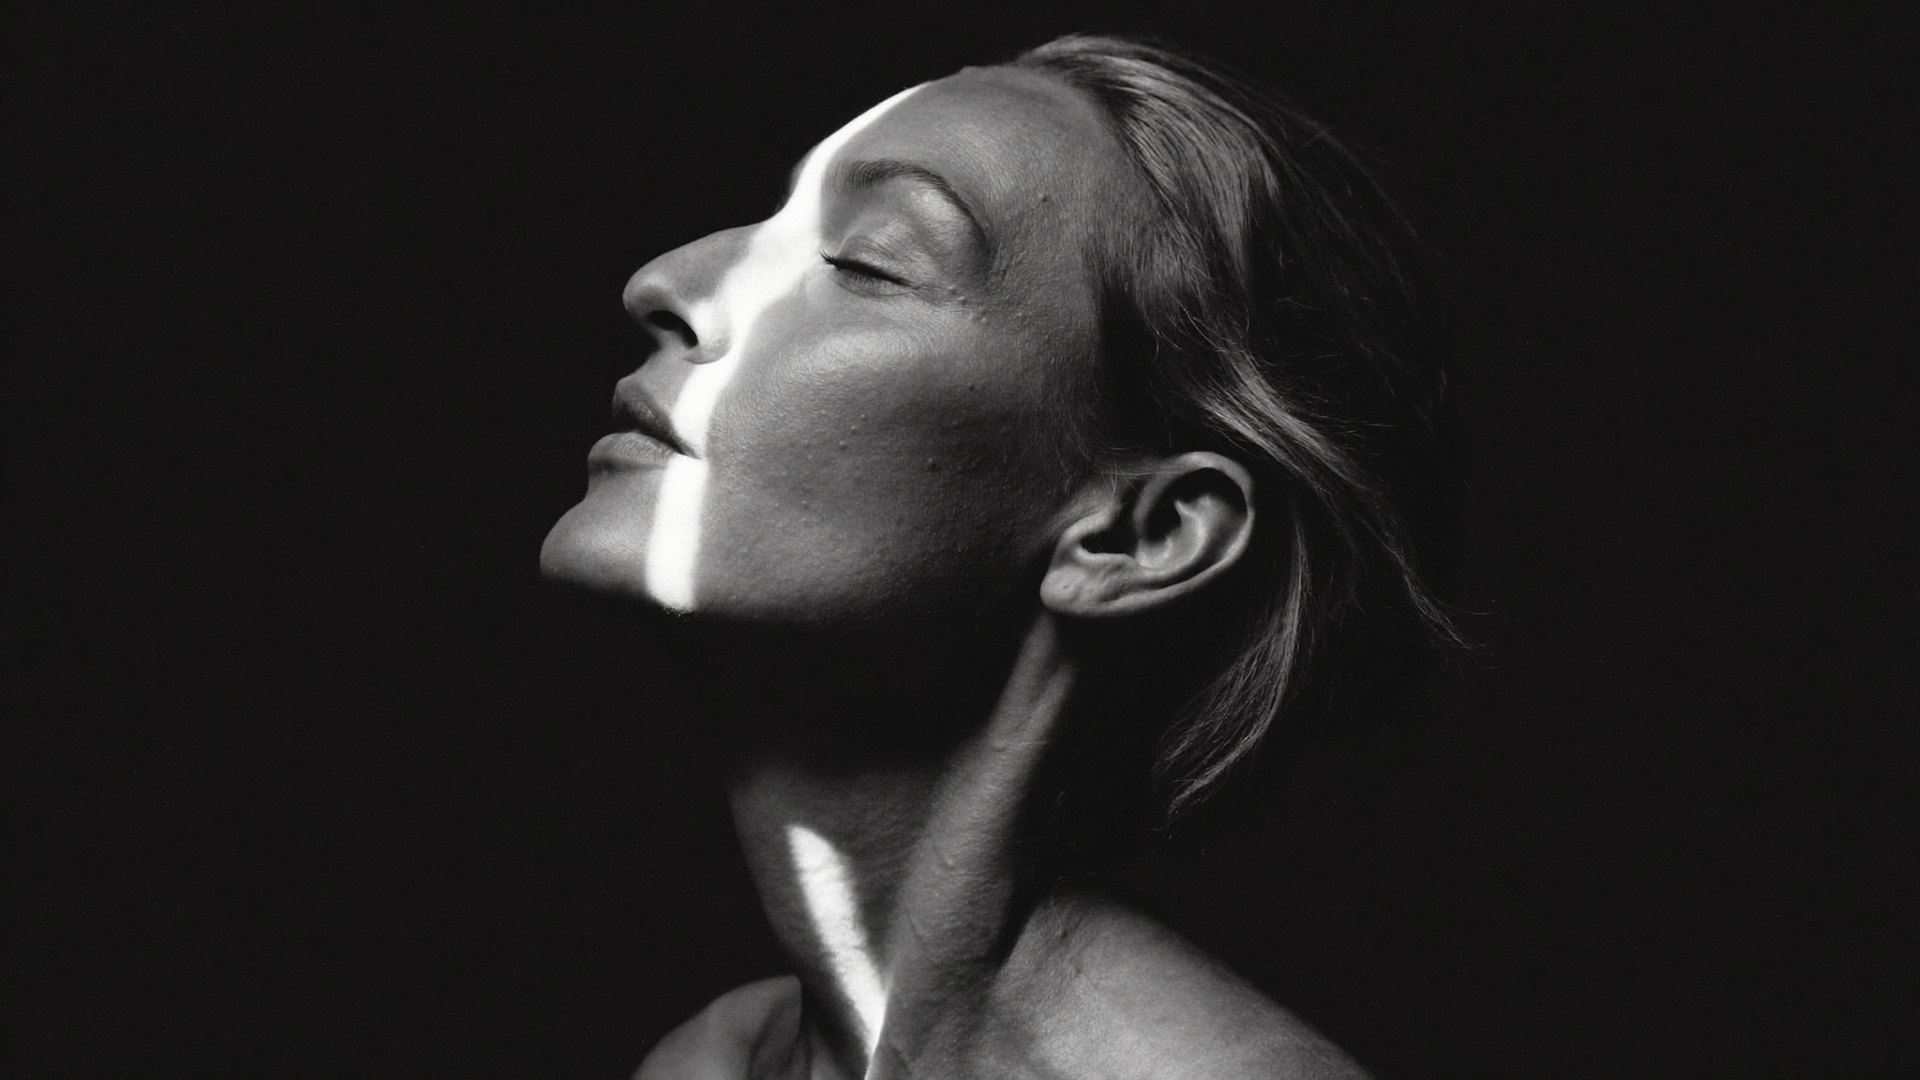
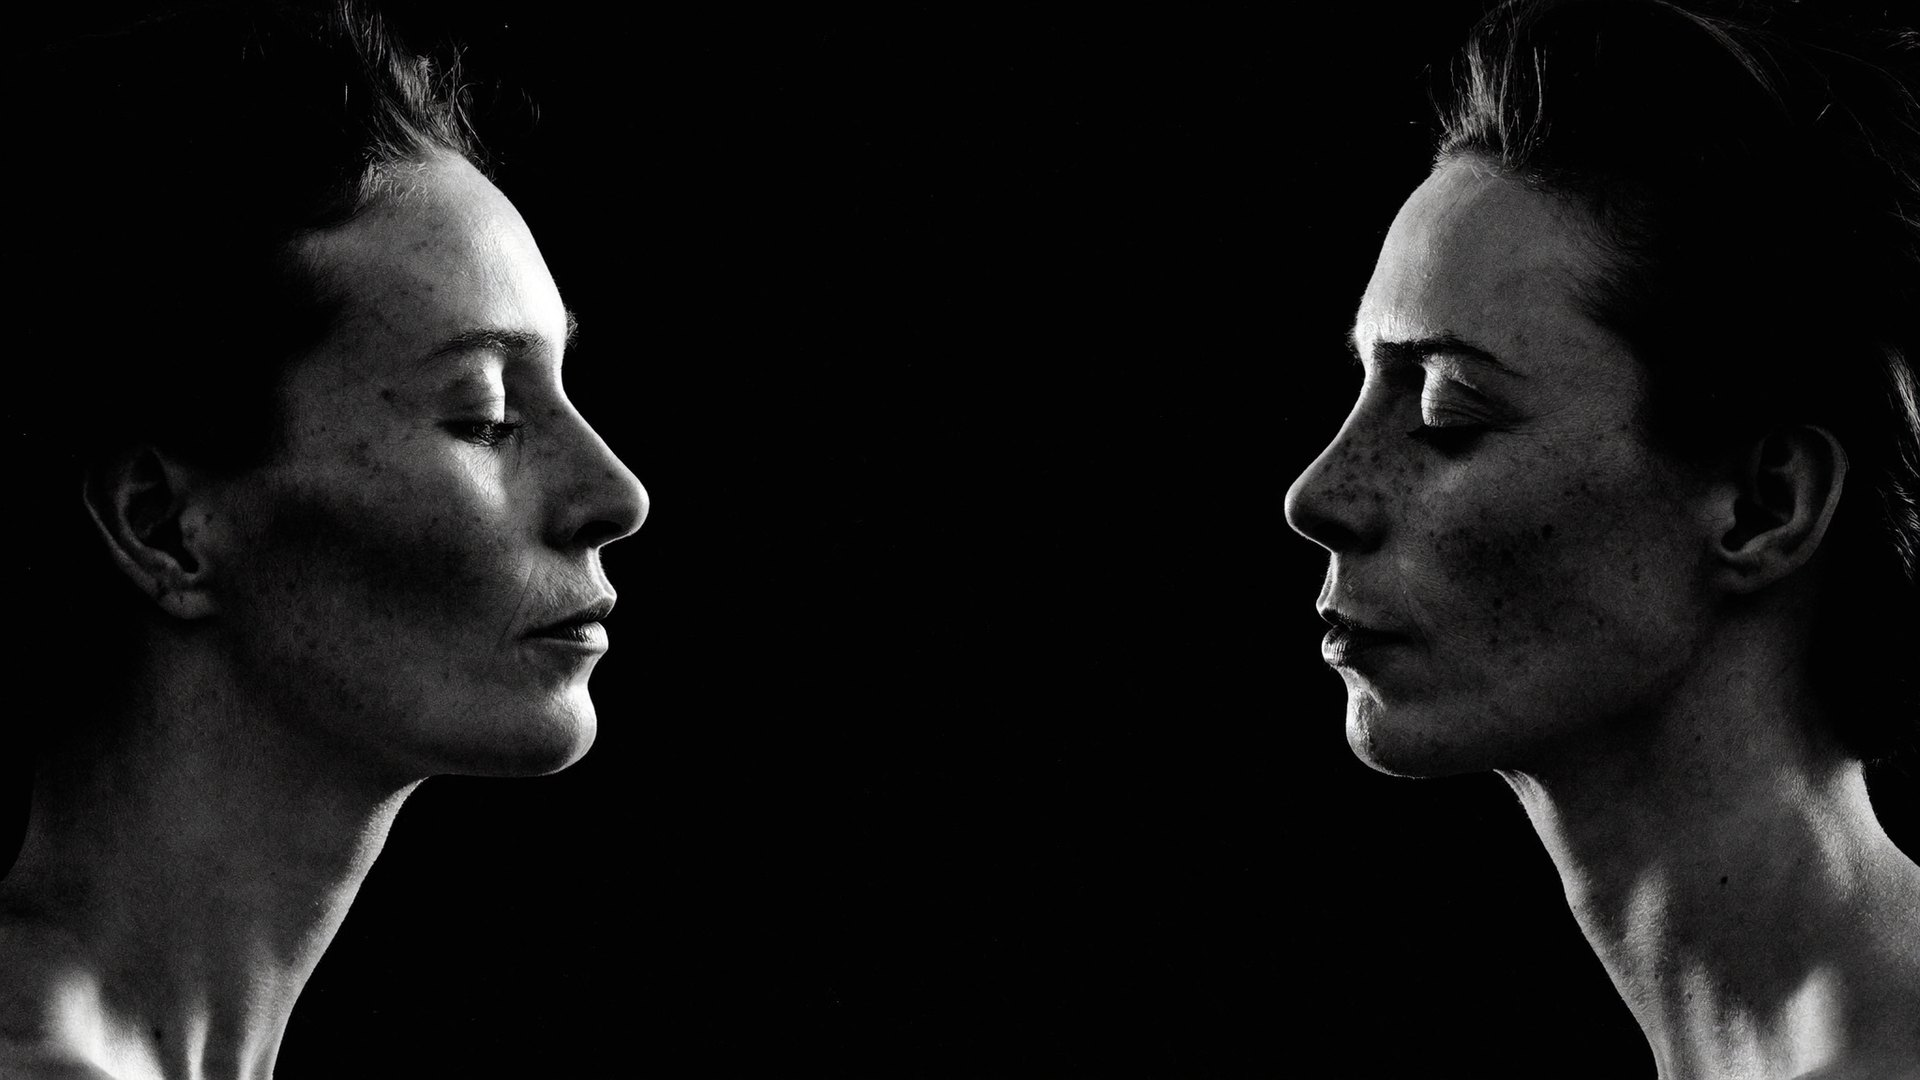
Update In-one-sentence image to twin-profile composition
Swap to a two-faces (left/right) editorial image with a dark centre, and
retune the section overlay to a horizontal gradient (darker centre,
lighter edges) so the side faces read while keeping the centred copy
legible.

Claude-Session: https://claude.ai/code/session_01YKkpd85ueaQwSE6AP1dj2S

diff --git a/site/facelift.html b/site/facelift.html
@@ -211,8 +211,8 @@ nav.main a.navlink:hover{color:#fff}
 /* ---------- in one sentence ---------- */
 .sentence{position:relative;color:#efe9df;text-align:center;overflow:hidden;background:#0c0b0a}
 .sentence .bg{position:absolute;inset:0;z-index:0}
-.sentence .bg img{width:100%;height:100%;object-fit:cover;opacity:.4}
-.sentence .bg::after{content:"";position:absolute;inset:0;background:radial-gradient(ellipse at center,rgba(12,11,10,.55),rgba(12,11,10,.86))}
+.sentence .bg img{width:100%;height:100%;object-fit:cover;opacity:.85}
+.sentence .bg::after{content:"";position:absolute;inset:0;background:linear-gradient(90deg,rgba(12,11,10,.25) 0%,rgba(12,11,10,.62) 32%,rgba(12,11,10,.8) 50%,rgba(12,11,10,.62) 68%,rgba(12,11,10,.25) 100%)}
 .sentence .inner{position:relative;z-index:2;max-width:760px;margin:0 auto;padding:clamp(80px,11vw,150px) var(--pad)}
 .sentence .eyebrow{color:var(--accent-l);justify-content:center;margin-bottom:1.6rem}
 .sentence .eyebrow::before,.sentence .eyebrow::after{background:var(--accent-l)}